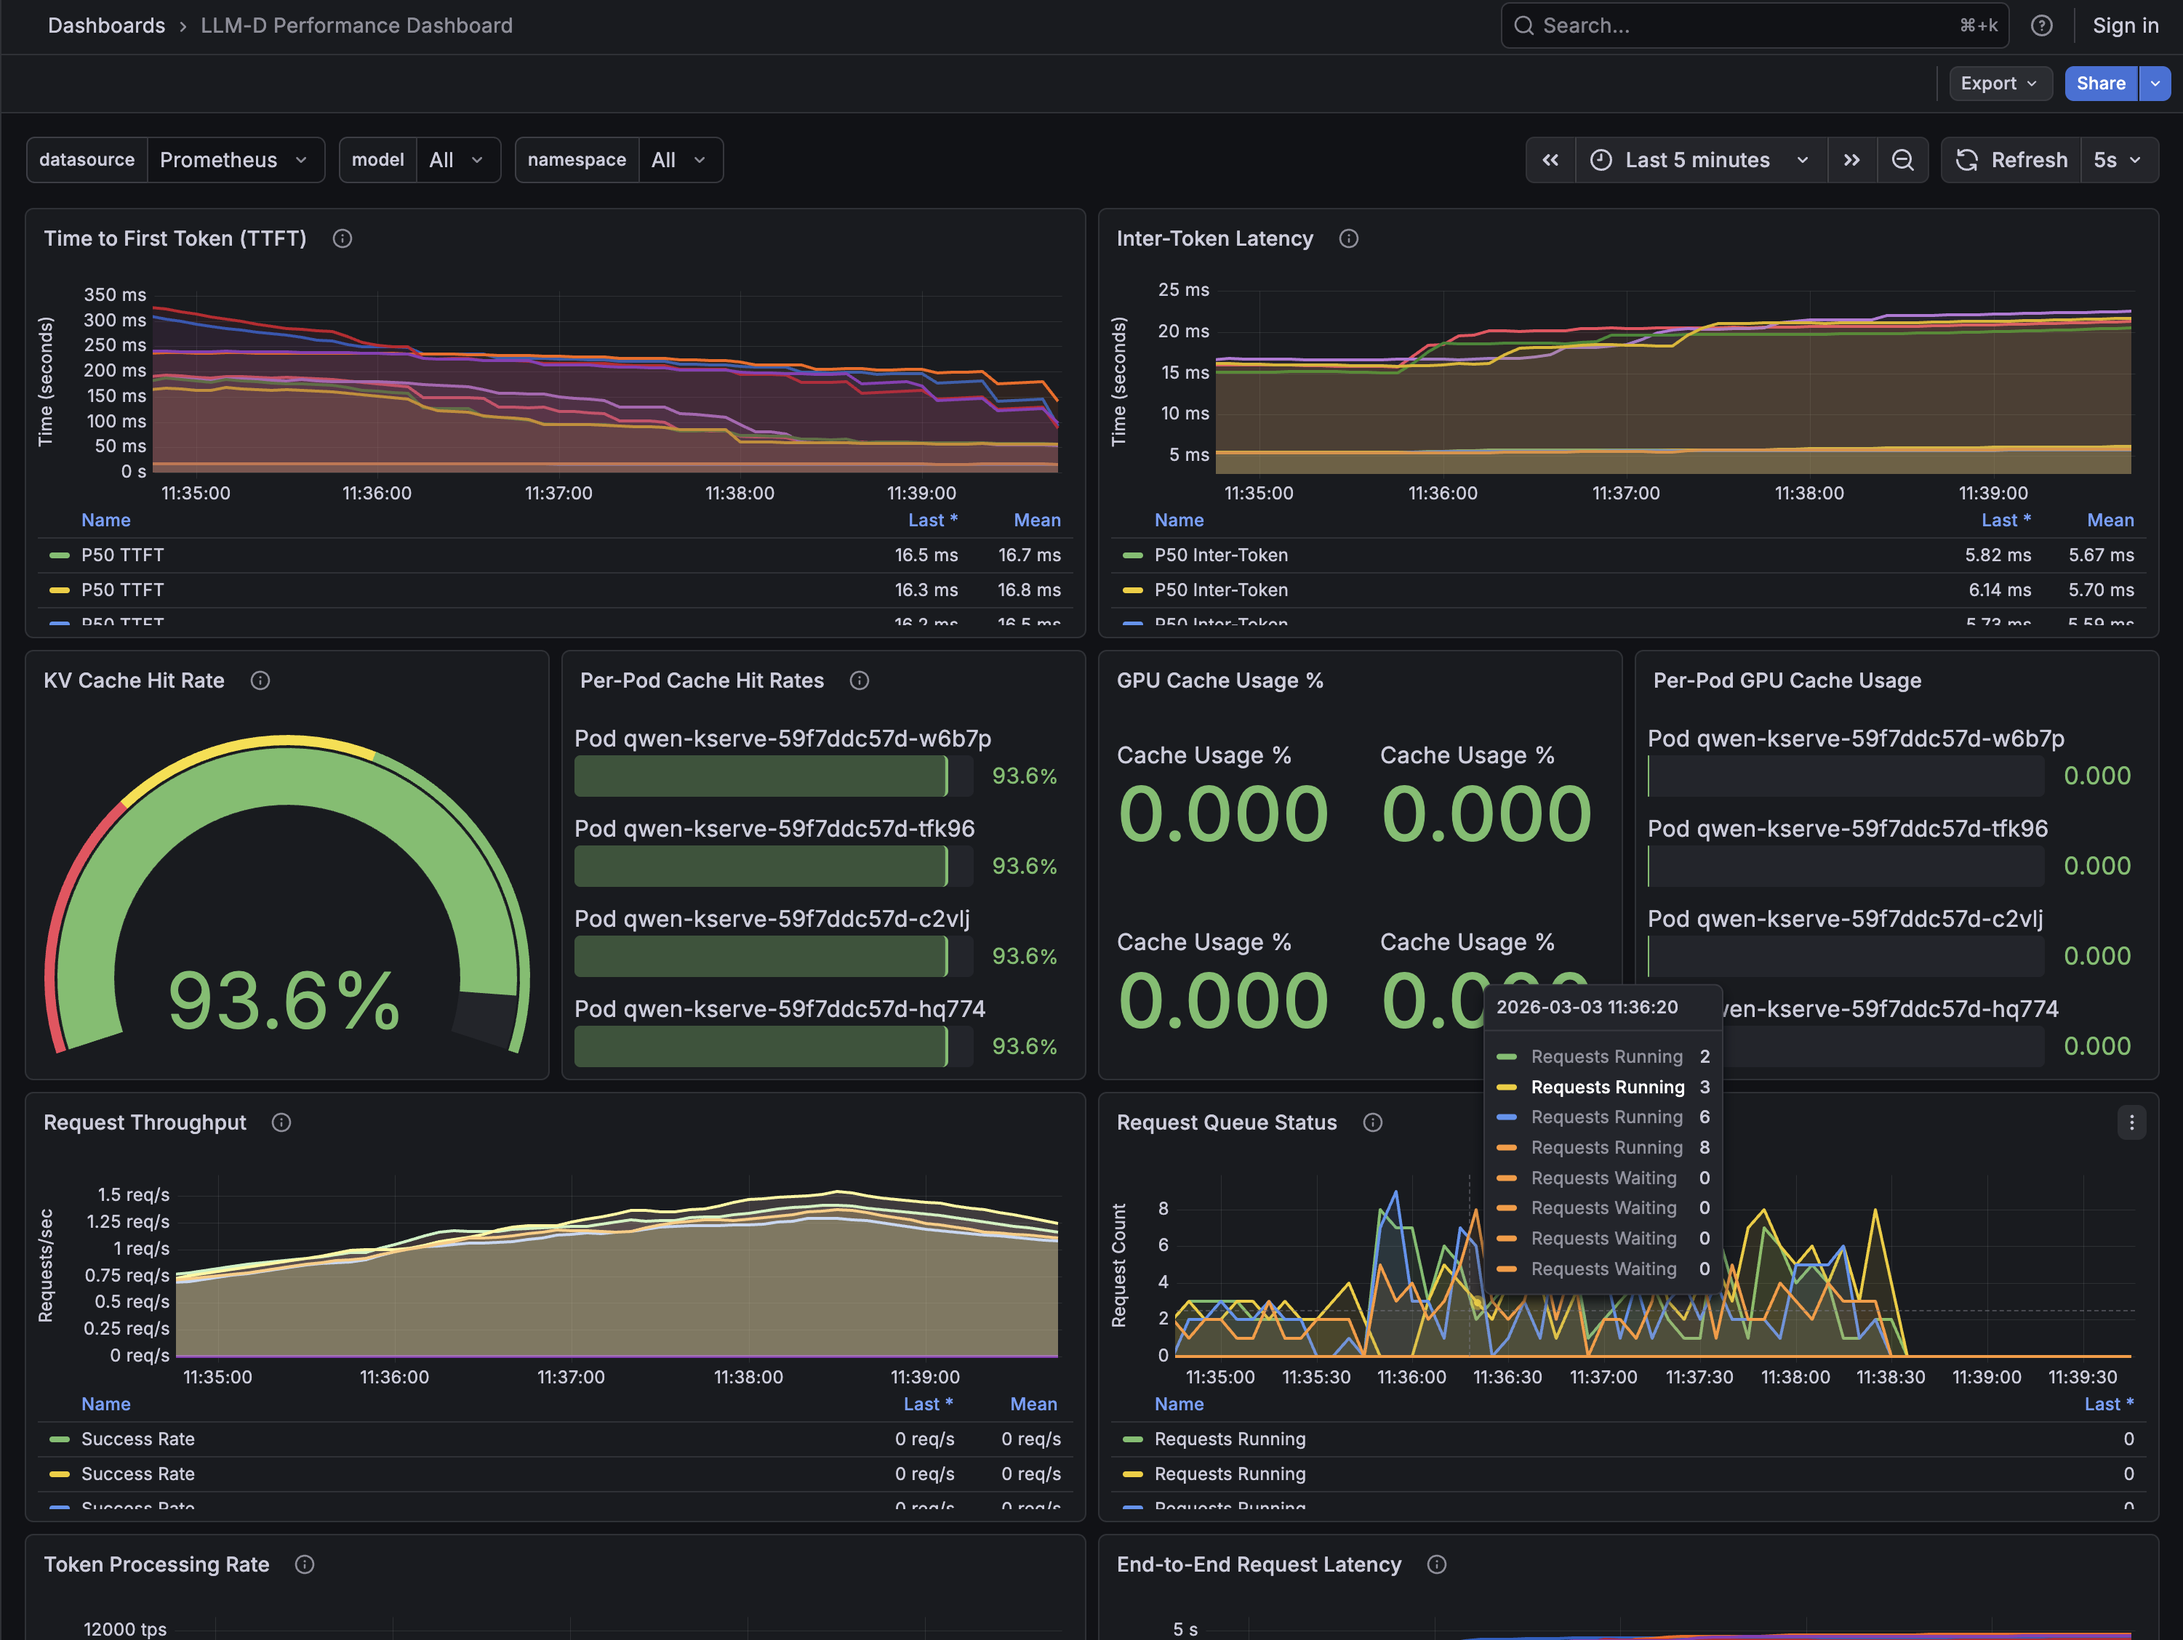
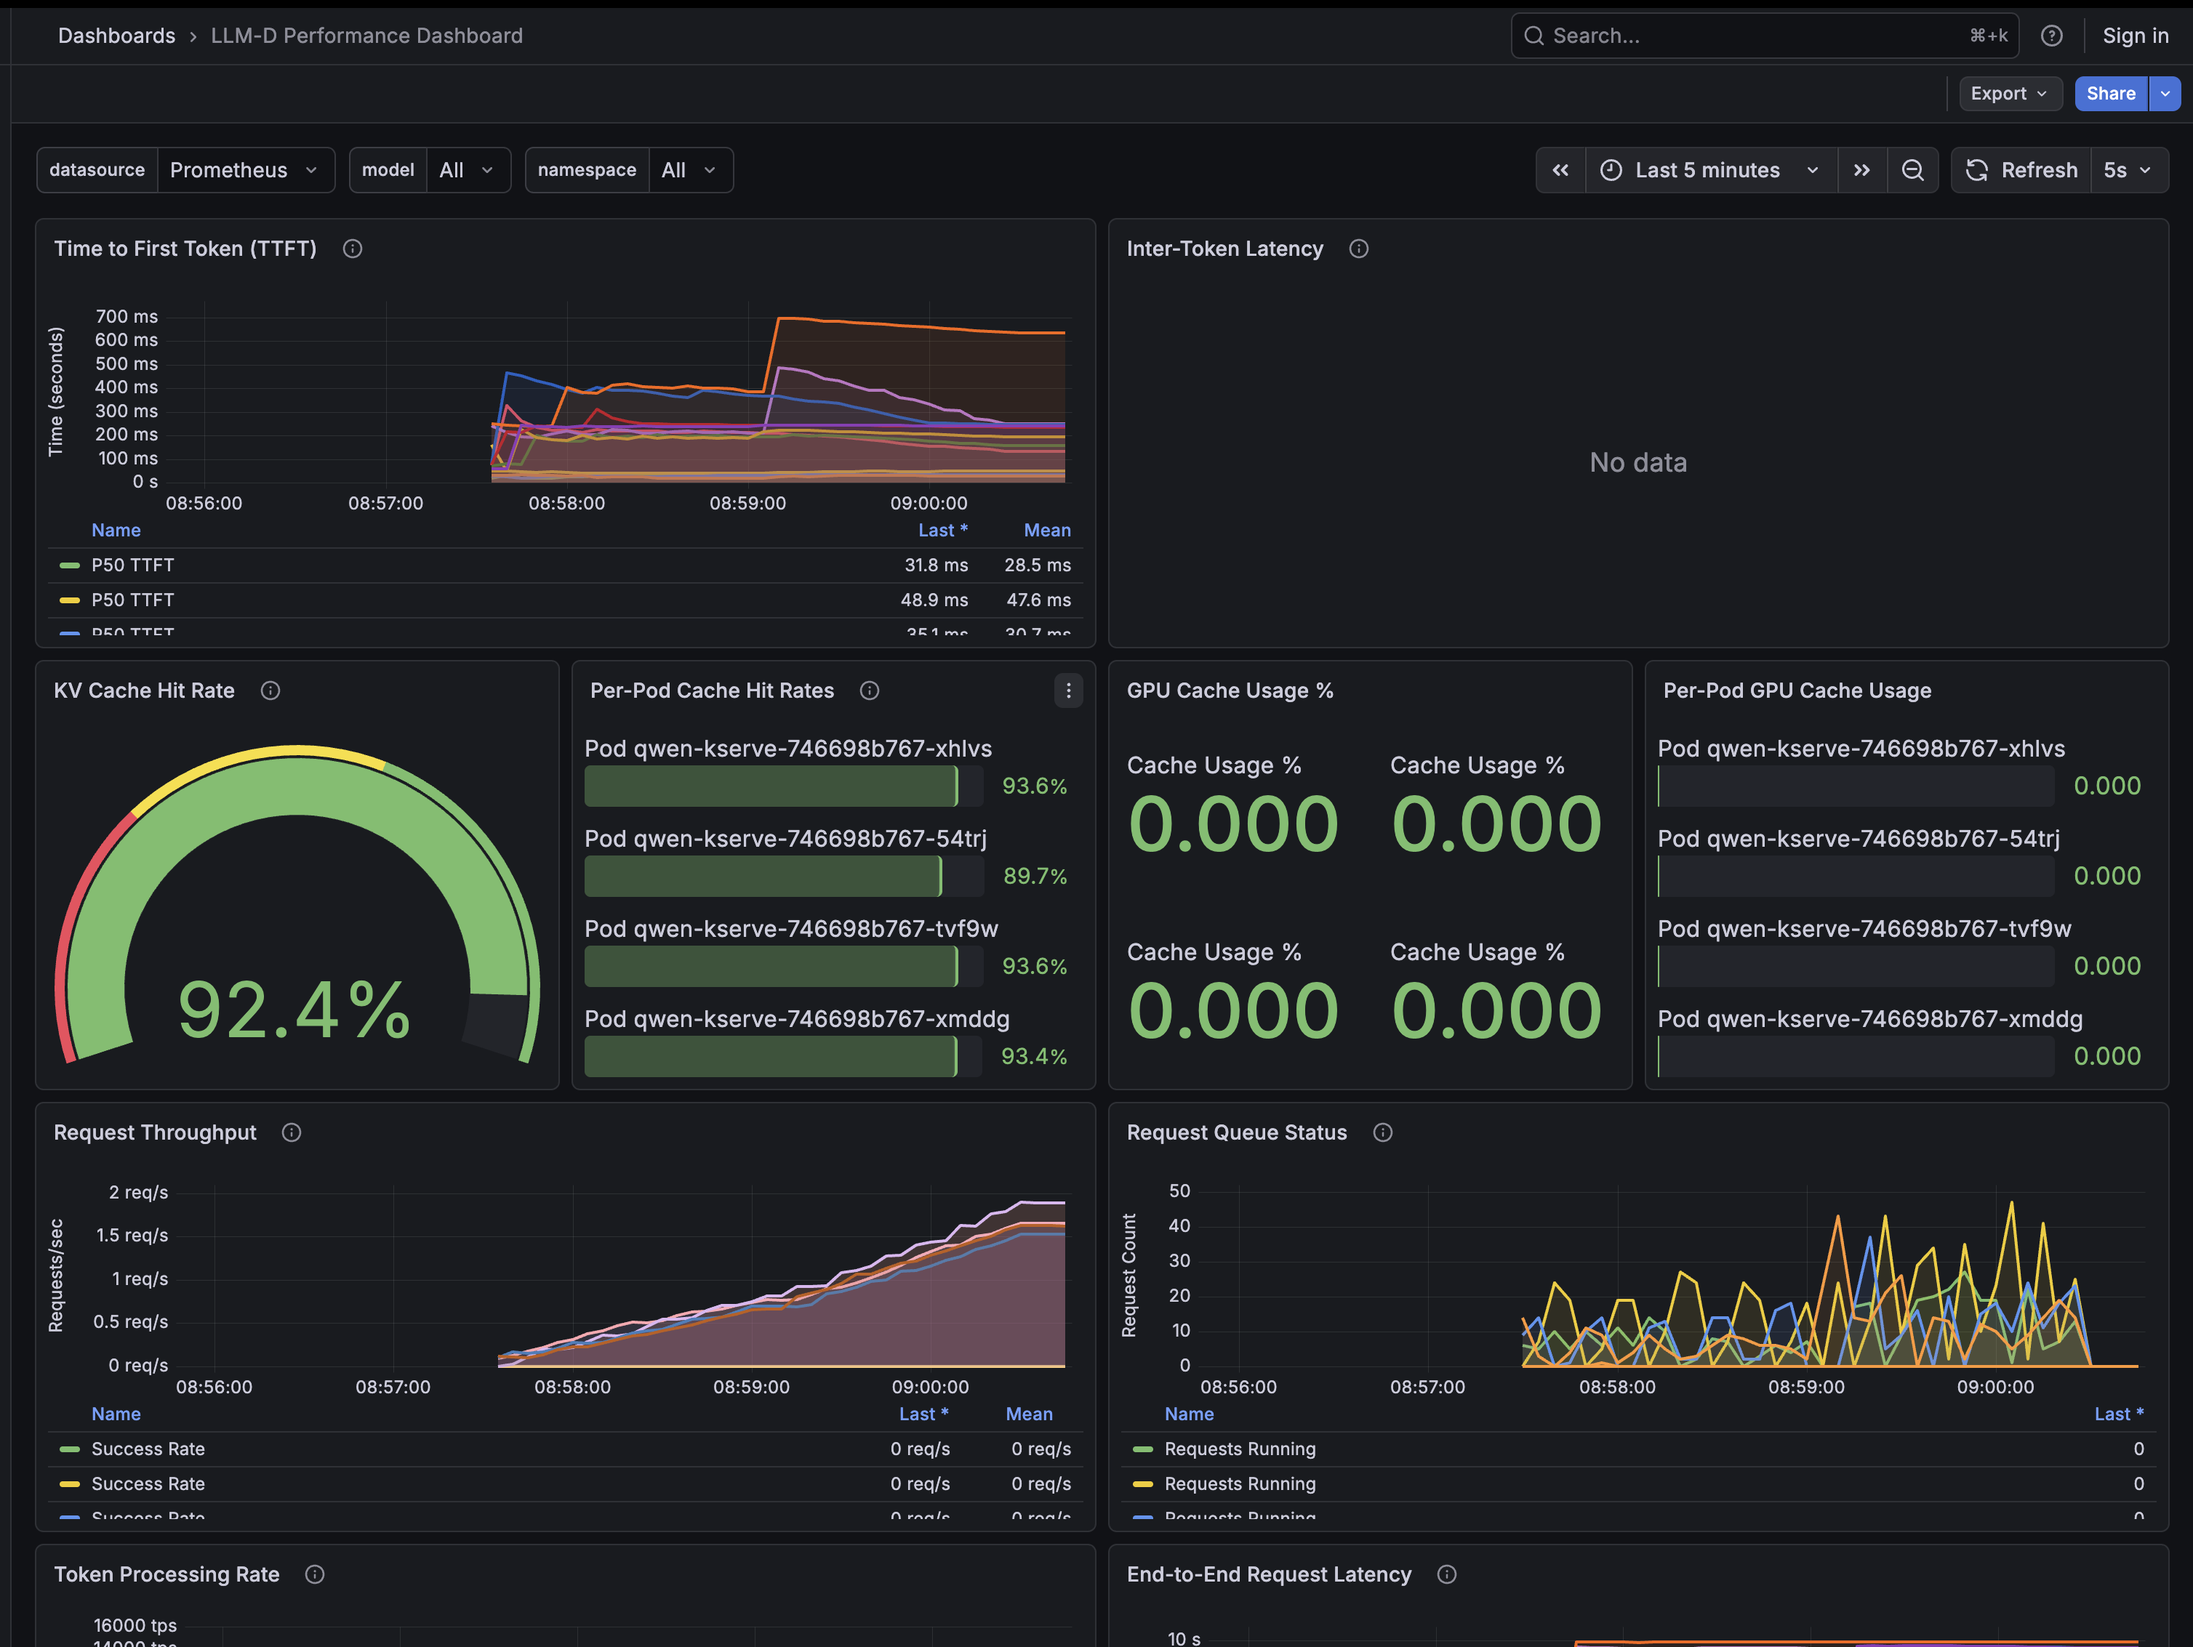
Updates to concurrency rate.  Moving to 32 and 64

diff --git a/08-benchmarking/intelligent-inference-scheduler/README.md b/08-benchmarking/intelligent-inference-scheduler/README.md
@@ -47,7 +47,7 @@ Access Grafana with default credentials: `admin` / `admin`
 | Metric | What to Look For |
 |--------|------------------|
 | **KV Cache Hit Rate** | Higher is better - LLM-D should show 90%+ vs ~60% for round-robin, depending on dataset|
-| **Time to First Token (TTFT)** | Lower P95/P99 indicates better tail latency |
+| **Time to First Token (TTFT)** | Lower Mean TTFTand P95/P99 indicates better tail latency |
 | **Requests per Second** | Overall throughput |
 | **GPU Utilization** | Balanced utilization across replicas |
 
@@ -240,8 +240,8 @@ Once the job completes you will see the request latency statistics e.g.
 | Strategy   | Sec             || ms           || ms         || ms         ||
 |            | Mdn     | p95    | Mdn   | p95   | Mdn  | p95  | Mdn  | p95  |
 |------------|---------|--------|-------|-------|------|------|------|------|
-| concurrent | 3.0     | 3.3    | 104.5 | 253.1 | 11.6 | 12.5 | 12.0 | 13.3 |
-| concurrent | 2.4     | 2.9    | 172.0 | 316.1 | 9.2  | 11.0 | 9.7  | 11.7 |
+| concurrent | 3.8     | 4.5    | 184.1 | 500.7 | 14.5 | 17.0 | 15.3 | 18.2 |
+| concurrent | 6.1     | 7.5    | 241.0 | 872.2 | 23.1 | 28.2 | 24.4 | 29.9 |
 |============|=========|========|=======|=======|======|======|======|======|
 ```
 
@@ -249,7 +249,7 @@ Take note of these results for vLLM.
 
 #### Grafana dashboard
 
-Look at the grafana dashboard, you should see the KV Cache Hit rate landing at around 65%, meaning about two thirds of requests are hitting vLLM pods which have already processed this prompt.  You should also see some high values being recorded for TTFT throughout the benchmark.
+Look at the grafana dashboard, you should see the KV Cache Hit rate landing at around 54%, meaning just over half of the requests are hitting vLLM pods which have already processed this prompt.  You should also see some high values being recorded for TTFT throughout the benchmark.
 
 ![vLLM Grafana Dashboard](assets/vllm-grafana.png)
 
@@ -307,54 +307,56 @@ Once the job completes you will see the request latency statistics e.g.
 
 ```
 ℹ Request Latency Statistics (Completed Requests)
-|============|=========|========|======|=======|=====|======|=====|======|
-| Benchmark  | Request Latency || TTFT        || ITL       || TPOT      ||
-| Strategy   | Sec             || ms          || ms        || ms        ||
-|            | Mdn     | p95    | Mdn  | p95   | Mdn | p95  | Mdn | p95  |
-|------------|---------|--------|------|-------|-----|------|-----|------|
-| concurrent | 1.9     | 2.4    | 52.3 | 165.8 | 7.4 | 9.4  | 7.6 | 9.8  |
-| concurrent | 2.3     | 3.0    | 53.9 | 83.0  | 9.1 | 11.9 | 9.3 | 12.1 |
-|============|=========|========|======|=======|=====|======|=====|======|
+|============|=========|========|======|=======|======|======|======|======|
+| Benchmark  | Request Latency || TTFT        || ITL        || TPOT       ||
+| Strategy   | Sec             || ms          || ms         || ms         ||
+|            | Mdn     | p95    | Mdn  | p95   | Mdn  | p95  | Mdn  | p95  |
+|------------|---------|--------|------|-------|------|------|------|------|
+| concurrent | 3.5     | 5.9    | 77.1 | 332.2 | 13.4 | 22.5 | 13.9 | 23.5 |
+| concurrent | 4.7     | 6.9    | 87.4 | 490.4 | 18.7 | 26.0 | 19.0 | 27.4 |
+|============|=========|========|======|=======|======|======|======|======|
 ```
 
 Take note of these results for LLM-D.
 
 #### Grafana dashboard
 
-Look at the grafana dashboard, you should see the KV Cache Hit rate landing at around 94%, meaning the majority of requests are hitting vLLM pods which have already processed this prompt.  You should also see the TTFT values steadily declining.  Both of these metrics are indications of the benefits of llm-d intelligent inference scheduling.
+Look at the grafana dashboard, you should see the KV Cache Hit rate landing at around 92%, meaning the majority of requests are hitting vLLM pods which have already processed this prompt.  You should also see the TTFT values steadily declining.  Both of these metrics are indications of the benefits of llm-d intelligent inference scheduling.
 
 ![vLLM Grafana Dashboard](assets/llm-d-grafana.png)
 
 
 ## Step 7: Compare Results
 
-Compare the GuideLLM output from Steps 4 and 6 side-by-side.
+Compare the GuideLLM output from Steps 4 and 6 side-by-side. The benchmarks were run at concurrency levels of 32 and 64.
 
 ### Request Latency
 
 | | vLLM | | LLM-D | | |
 |--|------|------|-------|------|------|
-| **Concurrency** | **Mdn (s)** | **p95 (s)** | **Mdn (s)** | **p95 (s)** | **Improvement** |
-| 8 | 3.0 | 3.3 | 1.9 | 2.4 | **37% faster** (Mdn) |
-| 16 | 2.4 | 2.9 | 2.3 | 3.0 | ~4% faster (Mdn) |
+| **Concurrency** | **Mdn (s)** | **p95 (s)** | **Mdn (s)** | **p95 (s)** | **Improvement (Mdn)** |
+| 32 | 3.8 | 4.5 | 3.5 | 5.9 | **8% faster** |
+| 64 | 6.1 | 7.5 | 4.7 | 6.9 | **23% faster** |
 
 ### Time to First Token (TTFT)
 
 | | vLLM | | LLM-D | | |
 |--|------|------|-------|------|------|
 | **Concurrency** | **Mdn (ms)** | **p95 (ms)** | **Mdn (ms)** | **p95 (ms)** | **Improvement** |
-| 8 | 104.5 | 253.1 | 52.3 | 165.8 | **50% faster** (Mdn), **35% faster** (p95) |
-| 16 | 172.0 | 316.1 | 53.9 | 83.0 | **69% faster** (Mdn), **74% faster** (p95) |
+| 32 | 184.1 | 500.7 | 77.1 | 332.2 | **58% faster** (Mdn), **34% faster** (p95) |
+| 64 | 241.0 | 872.2 | 87.4 | 490.4 | **64% faster** (Mdn), **44% faster** (p95) |
 
-TTFT is where LLM-D's intelligent routing shows the biggest impact. At concurrency 16, median TTFT drops from 172 ms to 54 ms because LLM-D routes requests to replicas that already have the prefix cached, avoiding redundant prefill computation.
+TTFT is where LLM-D's intelligent routing shows the biggest impact. At concurrency 64, median TTFT drops from 241 ms to 87 ms because LLM-D routes requests to replicas that already have the prefix cached, avoiding redundant prefill computation. The improvement is even more pronounced at the p95 tail: 872 ms down to 490 ms.
 
 ### Inter-Token Latency (ITL) and Time Per Output Token (TPOT)
 
 | | vLLM | | LLM-D | | |
 |--|------|------|-------|------|------|
 | **Concurrency** | **ITL Mdn (ms)** | **TPOT Mdn (ms)** | **ITL Mdn (ms)** | **TPOT Mdn (ms)** | **Improvement** |
-| 8 | 11.6 | 12.0 | 7.4 | 7.6 | **36% faster** (ITL) |
-| 16 | 9.2 | 9.7 | 9.1 | 9.3 | ~comparable |
+| 32 | 14.5 | 15.3 | 13.4 | 13.9 | ~8% faster (ITL), ~9% faster (TPOT) |
+| 64 | 23.1 | 24.4 | 18.7 | 19.0 | **19% faster** (ITL), **22% faster** (TPOT) |
+
+At higher concurrency, LLM-D's more efficient cache utilization reduces decode-phase latency as well. The improvement scales with load because cache hits free up GPU compute that would otherwise be spent on redundant prefill.
 
 ### KV Cache Hit Rate (Grafana)
 
@@ -368,9 +370,9 @@ With round-robin routing, a repeated prompt has only a 1-in-4 chance of hitting 
 
 The results demonstrate two key advantages of intelligent inference scheduling:
 
-1. **Dramatically lower TTFT** - By routing requests to replicas that already hold the prefix in KV cache, LLM-D avoids redundant prefill computation. This is most visible at higher concurrency where cache misses cause queueing.
+1. **Dramatically lower TTFT** - By routing requests to replicas that already hold the prefix in KV cache, LLM-D avoids redundant prefill computation. At concurrency 64, median TTFT improved by 64% (241 ms → 87 ms), with tail latency (p95) improving by 44% (872 ms → 490 ms).
 
-2. **Higher KV cache hit rates** - Round-robin routing distributes requests randomly across replicas, so cached prefixes are often missed. LLM-D's prefix-cache-scorer (weight: 3) ensures requests land on the replica with the cached prefix, while the kv-cache-utilization-scorer (weight: 2) and queue-scorer (weight: 2) keep load balanced.
+2. **Higher KV cache hit rates** - Round-robin routing distributes requests randomly across replicas, so cached prefixes are often missed. LLM-D's prefix-cache-scorer (weight: 3) ensures requests land on the replica with the cached prefix, while the kv-cache-utilization-scorer and queue-scorer keep load balanced. This pushed cache hit rates from ~65% to ~94%.
 
 ## Clean Up
 
